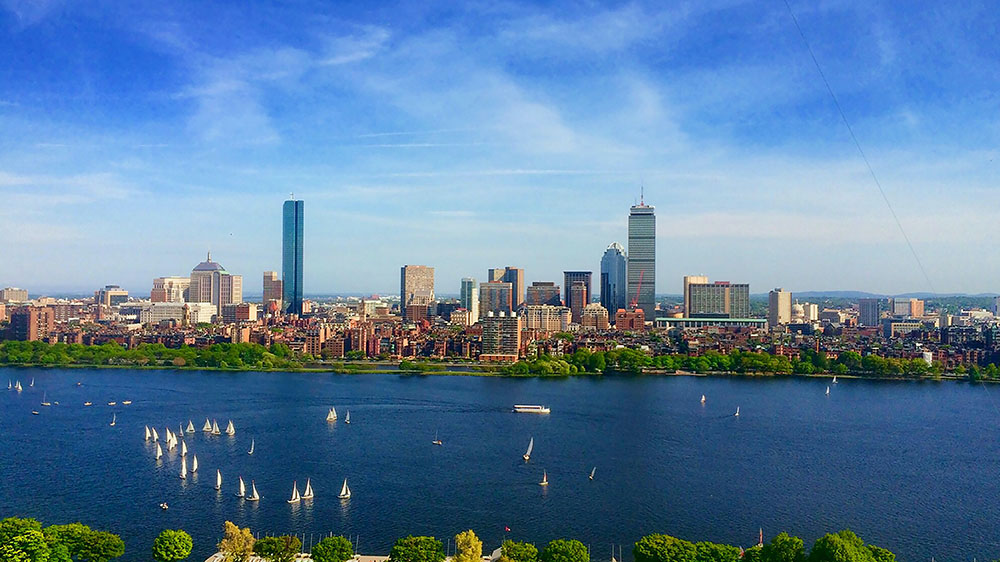
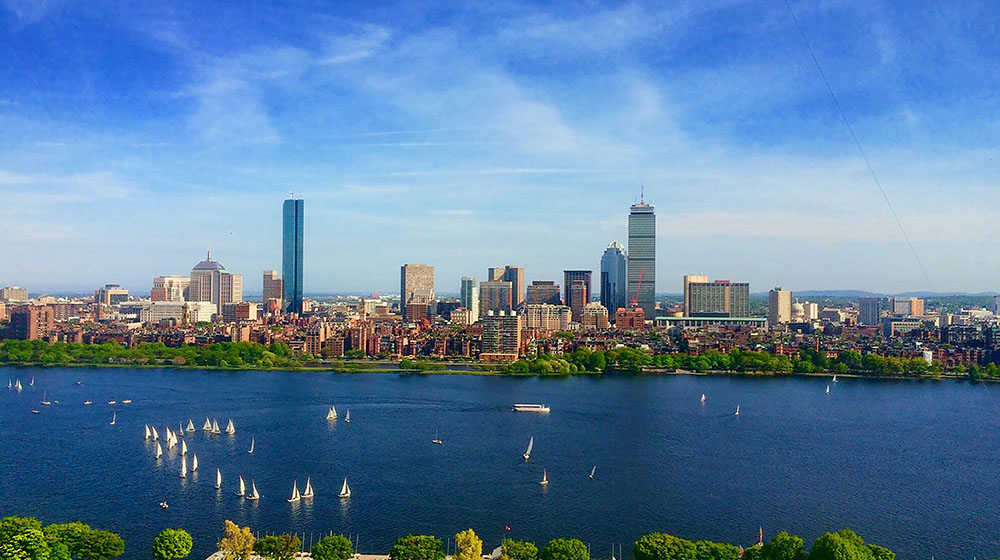
added images for med and small

diff --git a/Boston/index.html b/Boston/index.html
@@ -46,12 +46,15 @@
     <!-- Additional required wrapper -->
     <div class="swiper-wrapper">
       <!-- Slides -->
-      <div class="swiper-slide"><img src="images/boston1.jpg"></div>
-      <div class="swiper-slide"><img src="images/boston2.jpg"></div>
-      <div class="swiper-slide"><img src="images/boston3.jpg"></div>
-      <div class="swiper-slide"><img src="images/boston4.jpg"></div>
-      <div class="swiper-slide"><img src="images/boston5.jpg"></div>
-      ...
+      <div class="swiper-slide">
+        <picture>
+            <source media="(max-width: 28.12rem)" srcset="images/boston1_small.jpg" >
+            <source media="(min-width: 28.12rem)" srcset="images/boston1.2.jpg" >
+            <img src="images/boston1.jpg" alt="slider"> 
+        </picture>
+        <p><b>Boston Skyline</b> Boston is one of the healthiest cities in the country with a high quality of life 
+            to match. Deutsche Bank says Boston is the eighth best city in the world in terms of quality of life.</p>
+     </div>
     </div>
     <!-- If we need pagination -->
     <div class="swiper-pagination"></div>  
